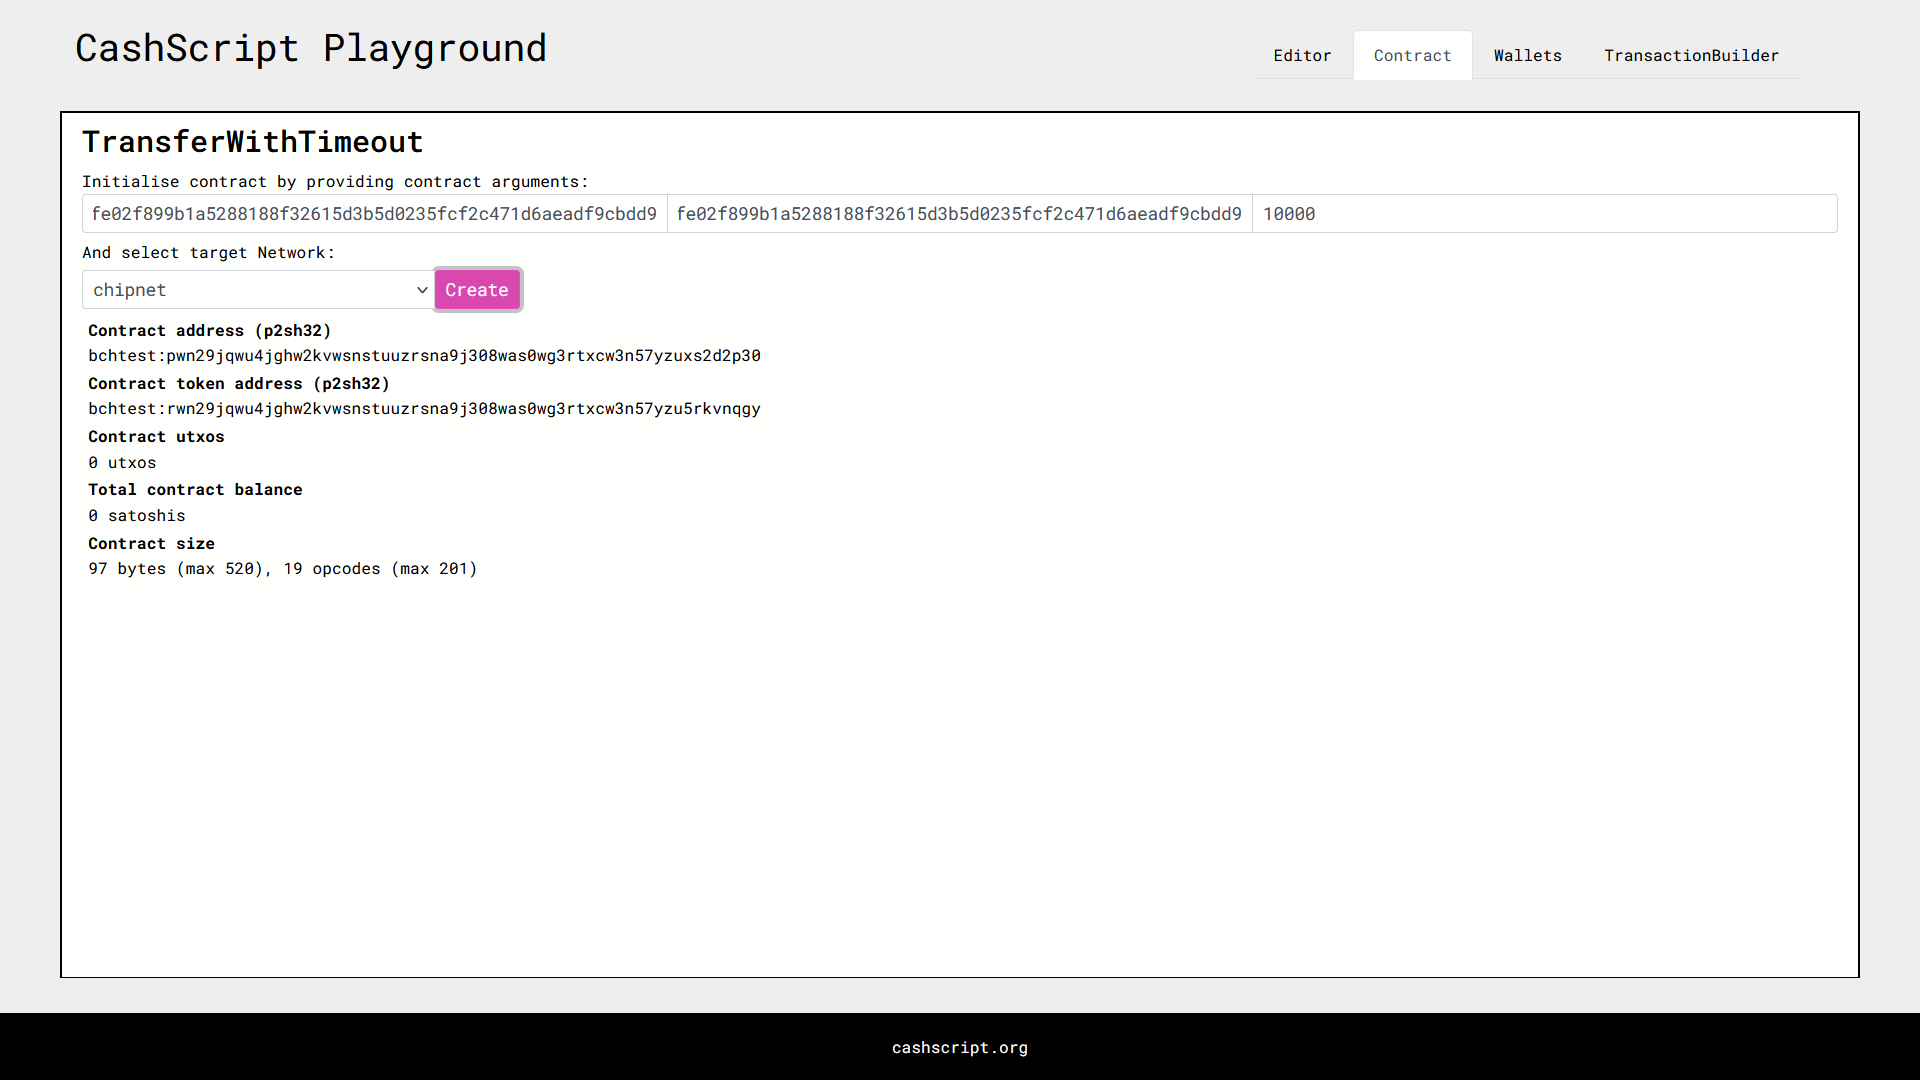
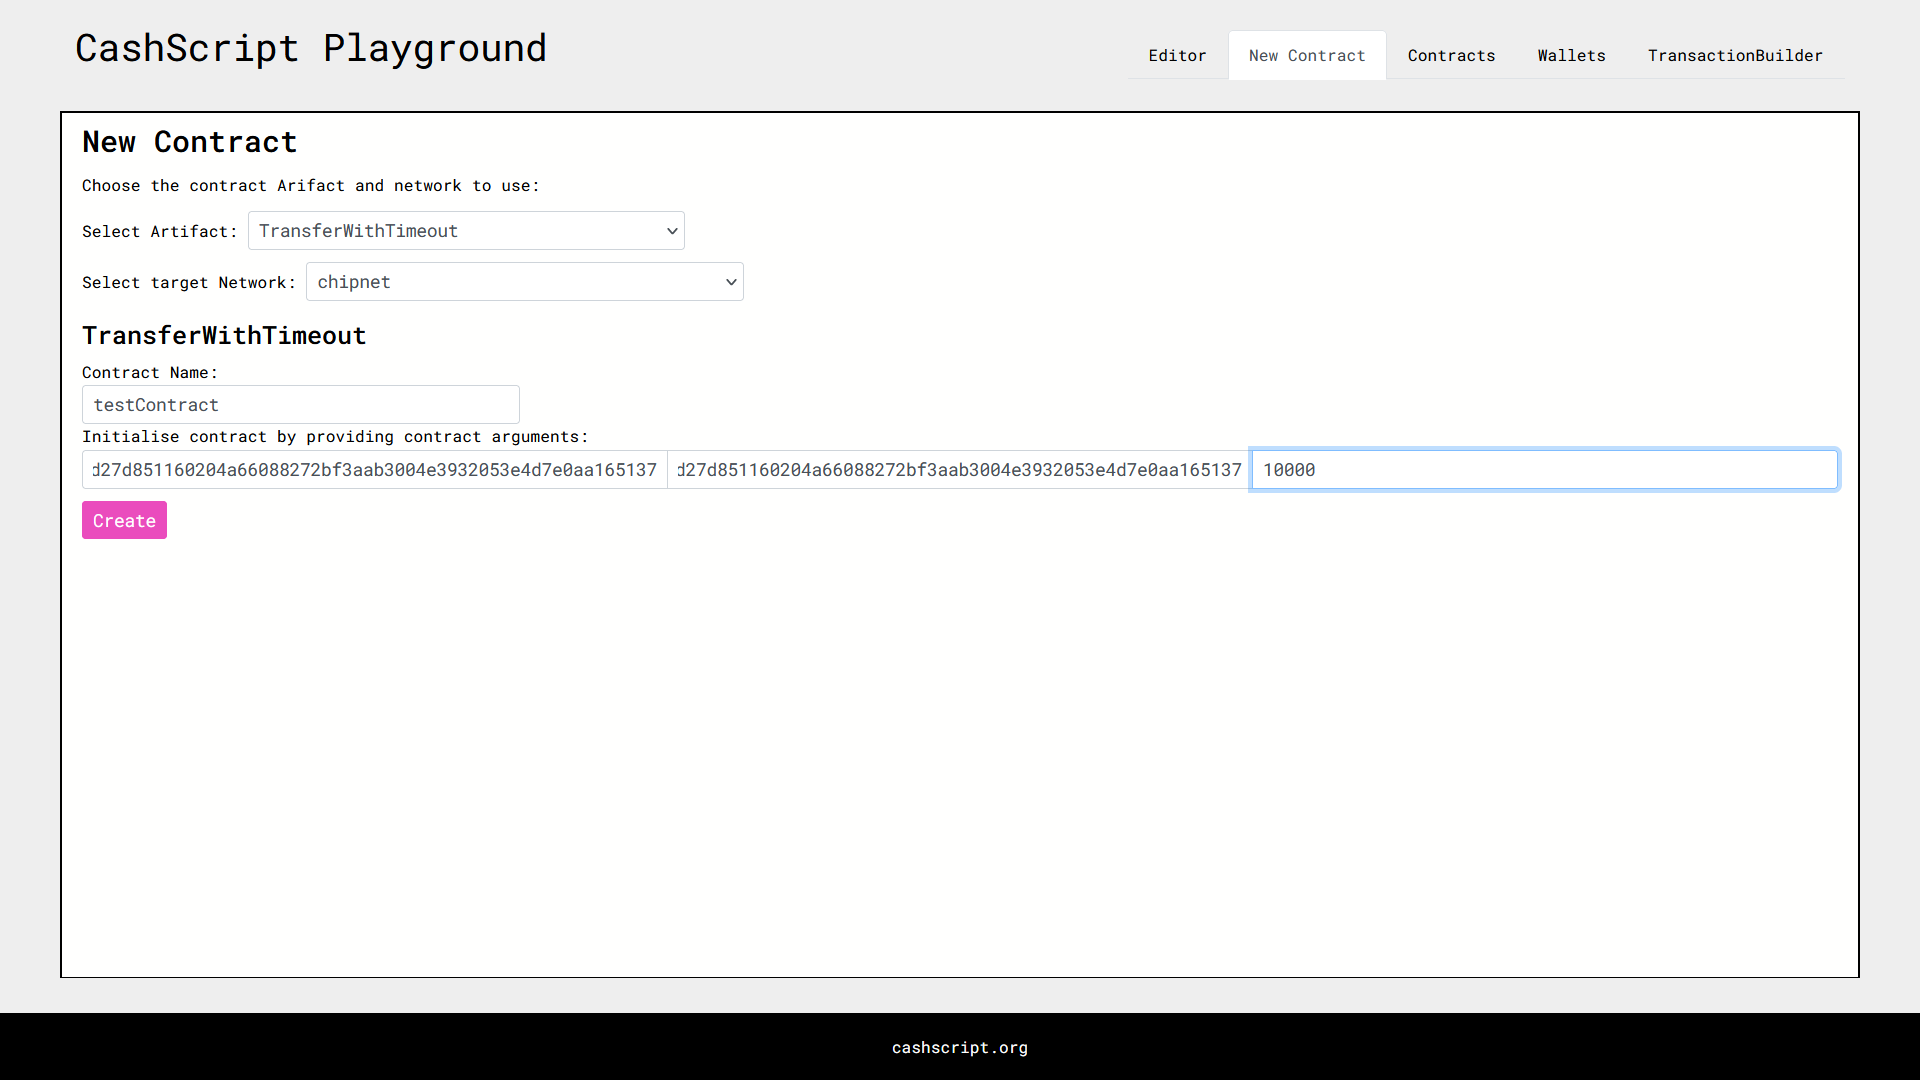
updat readme & screenshots

Changed region(s): [[0.0312, 0.1222, 0.9688, 0.55], [0.6562, 0.0306, 0.9375, 0.0611], [0.5938, 0.0306, 0.625, 0.0611]]

diff --git a/README.md b/README.md
@@ -7,10 +7,17 @@ The CashScript Playground is available at [playground.cashscript.org](https://pl
 
 In the left panel you can write CashScript contracts and compile them. After compiling, a contract Artifact is generated which can then be used to initialise an instance of the contract, with specific contract arguments.
 
-## Limitations
-Special transaction options such as OP_RETURN, hardcoded fees or relative timelocks are not supported by the playground.
+## Features
 
-The playground also does not support the combining multiple different smart contracts in one transaction.
+The CashScript Playground allows for importing or exporting contract Artifacts and makes it easy to test new versions of your CashScript code. Similarly, it's also easy to create many contract instances of the same contract with different contract arguments. The created Artifacts and contracts are remembered between sessions. 
+
+On the 'Wallets' tab, new key-pairs for testing wallets can be generated with just a mouse click. Each with detailed info on about the key pair and its network balance, with a full list of all current UTXOs. Lastly the TransactionBuilder supports CashTokens, manual input selection for easy P2PK inputs and signing selection through a simple dropdown! 
+
+## Limitations
+
+The playground uses the 'Simple transactio builder' so it doesn't support combining multiple different smart contracts in one transaction.
+
+Special transaction options such as OP_RETURN or relative timelocks are also not supported by the playground.
 
 ## Disclaimer
 
